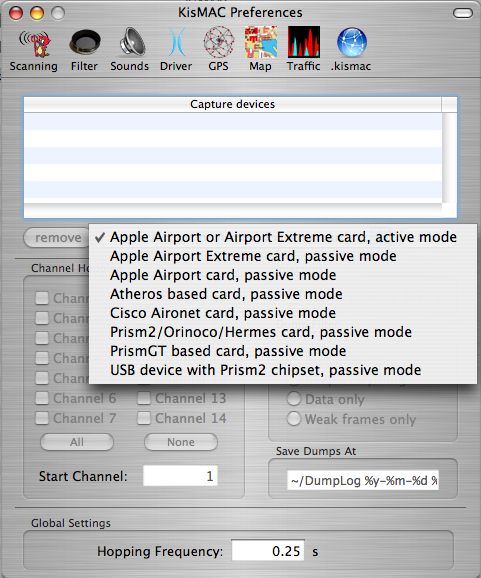
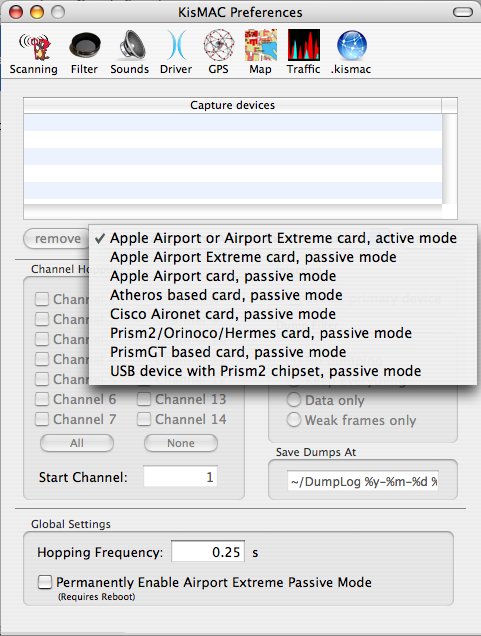
* commiting BugDaves changes in the documentation [55] Thanks!

diff --git a/KisMACng/Resources/Help/English.lproj/KisMACHelp/pgs/beginnerguide.html b/KisMACng/Resources/Help/English.lproj/KisMACHelp/pgs/beginnerguide.html
@@ -76,12 +76,19 @@ your specific wireless card.</font></p>
         passive mode. If you have a Atheros based card, choose this
       driver.</li>
     </ol>
-    Note: if you do not know which driver to use, you can refer to the table
+   <b> Note:</b> if you do not know which driver to use, you can refer to the table
     of common card brands at the end of this chapter. Updates to KisMAC are
     released more frequently than updates to the documentation, if this
     information is not up to date, please submit a new version.<br>
     <br>
   </li>
+  <li>KisMac also allows permanently enabling airport extreme to operate in
+    passive mode. To enable this feature check the box at the bottom of the
+    window (requires reboot).<b> Note:</b> If enabled, your wireless card can be used
+    by other applications however, this can cause your data to be captured in
+    the dump and result in confusion.
+  </li>
+    <br>
   <li>Your password will be asked for each time you start KisMAC because the
     drivers must be loaded and unloaded. If you would like KisMAC to load the
     drivers without asking for your password, check the Make scripts SUID
@@ -123,13 +130,6 @@ Preferences</font></p>
     cards.<br>
     <br>
   </li>
-  <li>If you would like KisMAC to automatically scan for networks as soon as
-    it starts, check the scan at startup checkbox. Note: Unless you have
-    another network connection, selecting this option will prevent you from
-    downloading maps from the Internet.  See the GPS chapter for more
-    information.<br>
-    <br>
-  </li>
   <li>The dump filter settings will tell KisMAC to create a PCAP file with
     the following filtering options:
     <ol>
@@ -143,10 +143,12 @@ Preferences</font></p>
       <li>Weak frames only - only packets with weak initialization vectors
         will be written to the log file.</li>
     </ol>
-    Please note: Dumping traffic is only useful if you want to make the
+    <b>Note:</b> Dumping traffic is only useful if you want to make the
     captured data available for third party tools, such as ethereal, dsniff
     or ettercap. You probably don't need this unless you want to see what the
-    data was or monitor it.</li>
+    data was or monitor it. You also don't need to use any of these features
+    to crack WEP. Weak (IVs) are automatically captured and can be saved in a 
+    KisMAC save file if needed.</li>
 </ol>
 
 <p><font face="Lucida Grande,Geneva,Arial" size="2">Sound
@@ -223,7 +225,7 @@ brands:</font></p>
       <td>Verified - works in passive mode now!</td>
     </tr>
     <tr>
-      <td>Asant&#x17d;     </td>
+      <td>Asante</td>
       <td>AL1011</td>
       <td>PrismII</td>
       <td>Should work</td>
@@ -287,6 +289,18 @@ brands:</font></p>
       <td>WPC54G</td>
       <td>Broadcom</td>
       <td>Should work in active mode only</td>
+    </tr>
+    <tr>
+      <td></td>
+      <td>WPC55AG</td>
+      <td>Atheros</td>
+      <td>Verified</td>
+    </tr>
+    <tr>
+      <td></td>
+      <td>WUSB11 ver. 2.5</td>
+      <td>PrismII</td>
+      <td>Verified</td>
     </tr>
     <tr>
       <td>Proxim</td>

diff --git a/KisMACng/Resources/Help/English.lproj/KisMACHelp/pgs2/16.html b/KisMACng/Resources/Help/English.lproj/KisMACHelp/pgs2/16.html
@@ -14,7 +14,7 @@
 <TD HEIGHT="40" VALIGN="middle"><FONT FACE="Lucida Grande,Helvetica,Arial" SIZE="4"><B>What is the purpose of logging sniffed packets to a file?</B></FONT></TD>
 </TR>
 </TABLE>
-<P><FONT SIZE="2" FACE="Lucida Grande,Geneva,Arial">The dump is saved in pcap format, which means that packet analyzers such as <a href="http://www.ethereal.com">ethereal</a> and <a href="http://ettercap.sourceforge.net">ettercap</a> can be run against the sniffed traffic. Furthermore KisMAC can read in dump files, via the import menu, and add those packets to those in the current session.
+<P><FONT SIZE="2" FACE="Lucida Grande,Geneva,Arial">The dump is saved in pcap format, which means that packet analyzers such as <a href="http://www.ethereal.com">ethereal</a> and <a href="http://ettercap.sourceforge.net">ettercap</a> can be run against the sniffed traffic. Furthermore KisMAC can read in dump files, via the import menu, and add those packets to those in the current session. If the dump session is encrypted it can also be decoded later assuming you obtain the key.
 </FONT>
 <P><TABLE BORDER="0" CELLPADDING="0" CELLSPACING="0" WIDTH="100%">
 <TR VALIGN="top">

diff --git a/KisMACng/Resources/Help/English.lproj/KisMACHelp/pgs2/05.html b/KisMACng/Resources/Help/English.lproj/KisMACHelp/pgs2/05.html
@@ -89,9 +89,8 @@ are:</b></font></p>
 <table border="0" cellpadding="0" cellspacing="2" width="100%">
   <tbody>
     <tr valign="top">
-      <td width="12"><span
-        style="font-family: Lucida Grande,Helvetica,Arial;"><span
-        style="font-weight: bold;">6</span></span></td>
+        <td width="12"><font face="Lucida Grande,Helvetica,Arial"
+        size="2"><b>6</b></font></td>
       <td><font face="Lucida Grande,Geneva,Arial" size="2">There were
         processes open which access the Airport Card directly (such as
         Internet Connect.app). This will keep KisMAC from reloading your
@@ -171,8 +170,8 @@ size="2"><b>Solutions:</b></font></p>
 </table>
 
 <p><font face="Lucida Grande,Geneva,Arial" size="2">Still having trouble?
-Send me an email: <a href="mailto:mick@binaervarianz.de_NOSPAM">mick at
-binaervarianz dot de</a>.</font></p>
+Send us an email: <a href="mailto:kismac-dev@binaervarianz.de_NOSPAM">kismac-dev at 
+        binaervarianz dot de</a>.</font></p>
 
 <p></p>
 

diff --git a/KisMACng/Resources/Help/English.lproj/KisMACHelp/pgs/mainview.html b/KisMACng/Resources/Help/English.lproj/KisMACHelp/pgs/mainview.html
@@ -78,7 +78,23 @@ packet. WPA networks will not be correctly identified in active mode. </li>
     </ul>
 
     </li>
-  <li>The search field will allow you to filter all unwanted networks. Currently only the SSID fields will be searched.
+  <li>The search field will allow you to filter all unwanted networks.
+   <ul>
+     <li><b>SSID</b> - Filter by the SSID (service set identifier)
+           </li>
+     <li><b>BSSID</b> - Filter by the BSSID (basic service set identifier aka MAC address)
+           </li>
+     <li><b>Vendor</b> - Filter by manufacturer
+           </li>
+     <li><b>Encryption</b> - Filter by encryption type
+           </li>
+     <li><b>Main Channel</b> - Filter by main channel of the WAP (wireless access point)
+           </li>
+     <li><b>Type</b> - Filter by type of mode the wireless devices operate in
+           </li>
+     <li><b>Comment</b> - Filter by a comment you have stored in the details window.
+           </il>
+   </ul>
   </li>
 </ol>
 

diff --git a/KisMACng/Resources/Help/English.lproj/KisMACHelp/pgs2/09.html b/KisMACng/Resources/Help/English.lproj/KisMACHelp/pgs2/09.html
@@ -32,8 +32,9 @@
 </p>
 <p><font face="Lucida Grande,Geneva,Arial" size="2">This is a tough
 question, based on probability: each packet may reveal one bit of the
-key, once in a few thousand times. Currently you will need about a
-million data packets to be sure that the attack works!
+key, once in a few thousand times. You will need about a million data 
+packets to be sure that the attack works. However, it has been done in 
+less than 250,000
 </font>
 </p>
 <p><font face="Lucida Grande,Helvetica,Arial" size="2"><b>Bruteforce Attack:</b></font>
@@ -41,7 +42,7 @@ million data packets to be sure that the attack works!
 </p>
 <p><font face="Lucida Grande,Geneva,Arial" size="2">The Bruteforce
 attack does not require any weak keys or captured traffic, however you
-will need a lot more CPU time to break a key using a
+will need <b>a lot</b> more CPU time to break a key using a
 bruteforce attack.</font>
 
 </p>

diff --git a/KisMACng/Resources/Help/English.lproj/KisMACHelp/pgs2/02.html b/KisMACng/Resources/Help/English.lproj/KisMACHelp/pgs2/02.html
@@ -32,7 +32,7 @@
   <tbody>
     <tr valign="top">
       <td width="12"><font face="Lucida Grande,Helvetica,Arial" size="2"><b>1</b></font></td>
-      <td><font face="Lucida Grande,Geneva,Arial" size="2">KisMAC is a testing platform for me.</font></td>
+      <td><font face="Lucida Grande,Geneva,Arial" size="2">KisMAC is a testing platform for us.</font></td>
     </tr>
   </tbody>
 </table>
@@ -72,7 +72,7 @@
   <tbody>
     <tr valign="top">
       <td width="12"><font face="Lucida Grande,Helvetica,Arial" size="2"><b>5</b></font></td>
-      <td><font face="Lucida Grande,Geneva,Arial" size="2">I develop for fun and testing is boring =)</font></td>
+      <td><font face="Lucida Grande,Geneva,Arial" size="2">We develop for fun and testing is boring =)</font></td>
     </tr>
   </tbody>
 </table>

diff --git a/KisMACng/Resources/Help/English.lproj/KisMACHelp/pgs/detailsview.html b/KisMACng/Resources/Help/English.lproj/KisMACHelp/pgs/detailsview.html
@@ -138,7 +138,7 @@ The amount of data that was monitored by KisMAC in the above network.</li>
 
   <li><b>Key</b><br>
 
-The resolved key, if you did well.</li>
+The resolved key, if you did well. (For the key to show you must first crack it. Once cracked the key will appear in this field)</li>
 
 
   <li><b>LastIV</b><br>
@@ -148,7 +148,7 @@ The last caught Initialization Vectors from WEP encryption.</li>
 
   <li><b>Latitude</b><br>
 
-Longitude<br>
+<b>Longitude</b><br>
 
 If you use or used GPS during your scan, the global position of the network will be shown here.</li>
 
